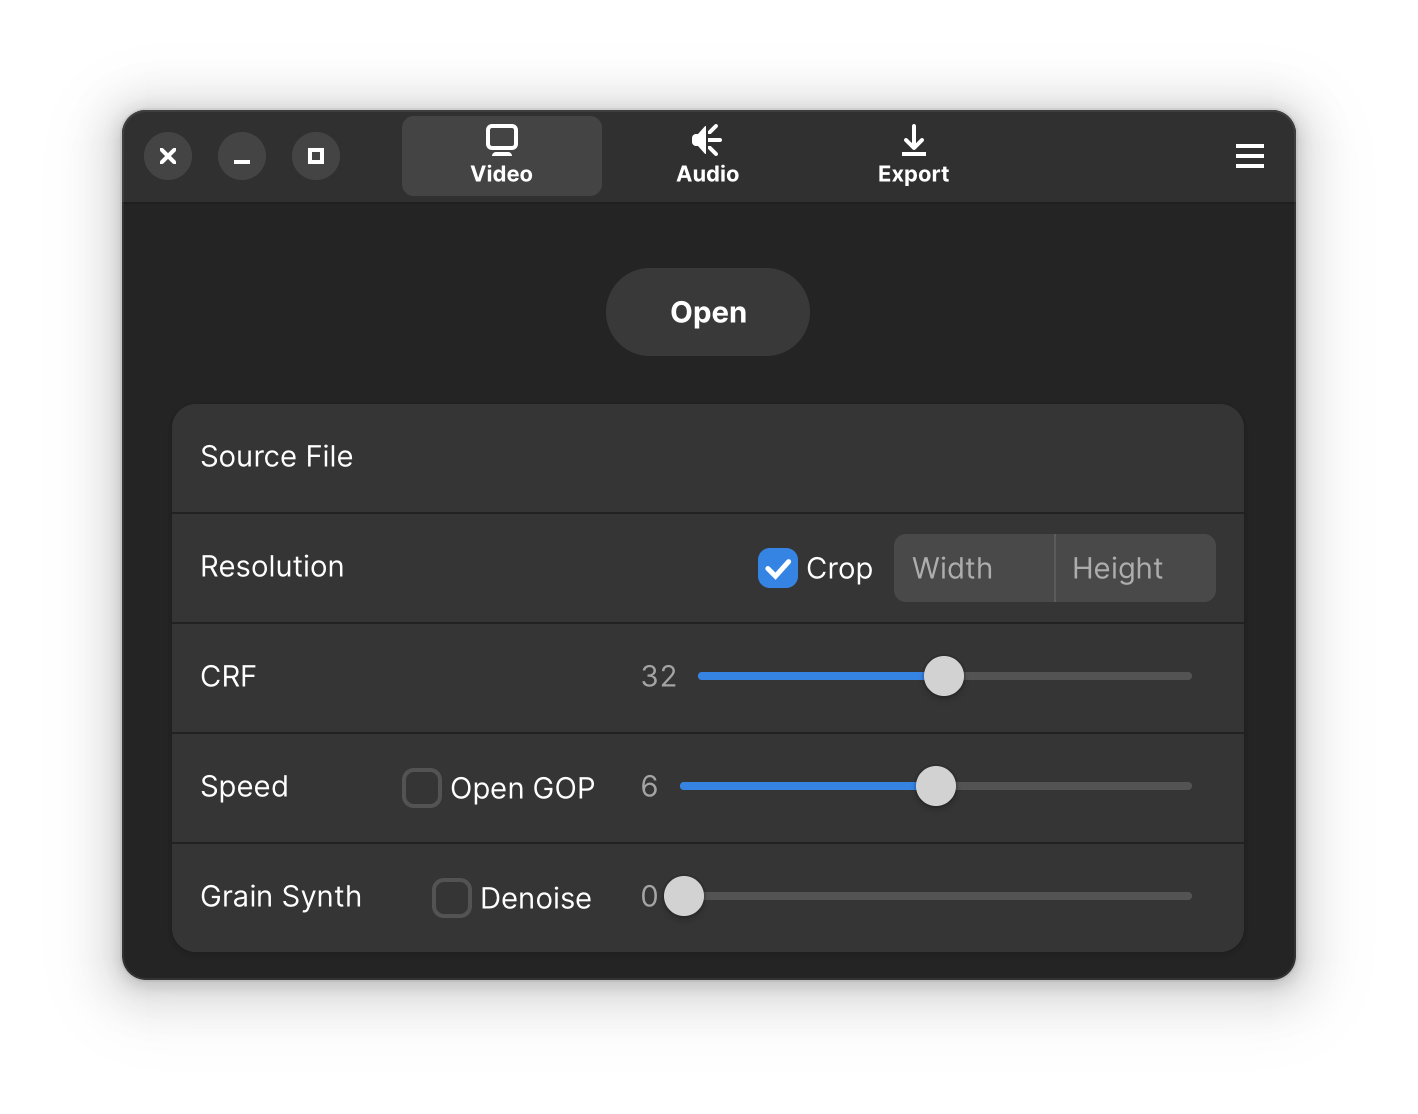
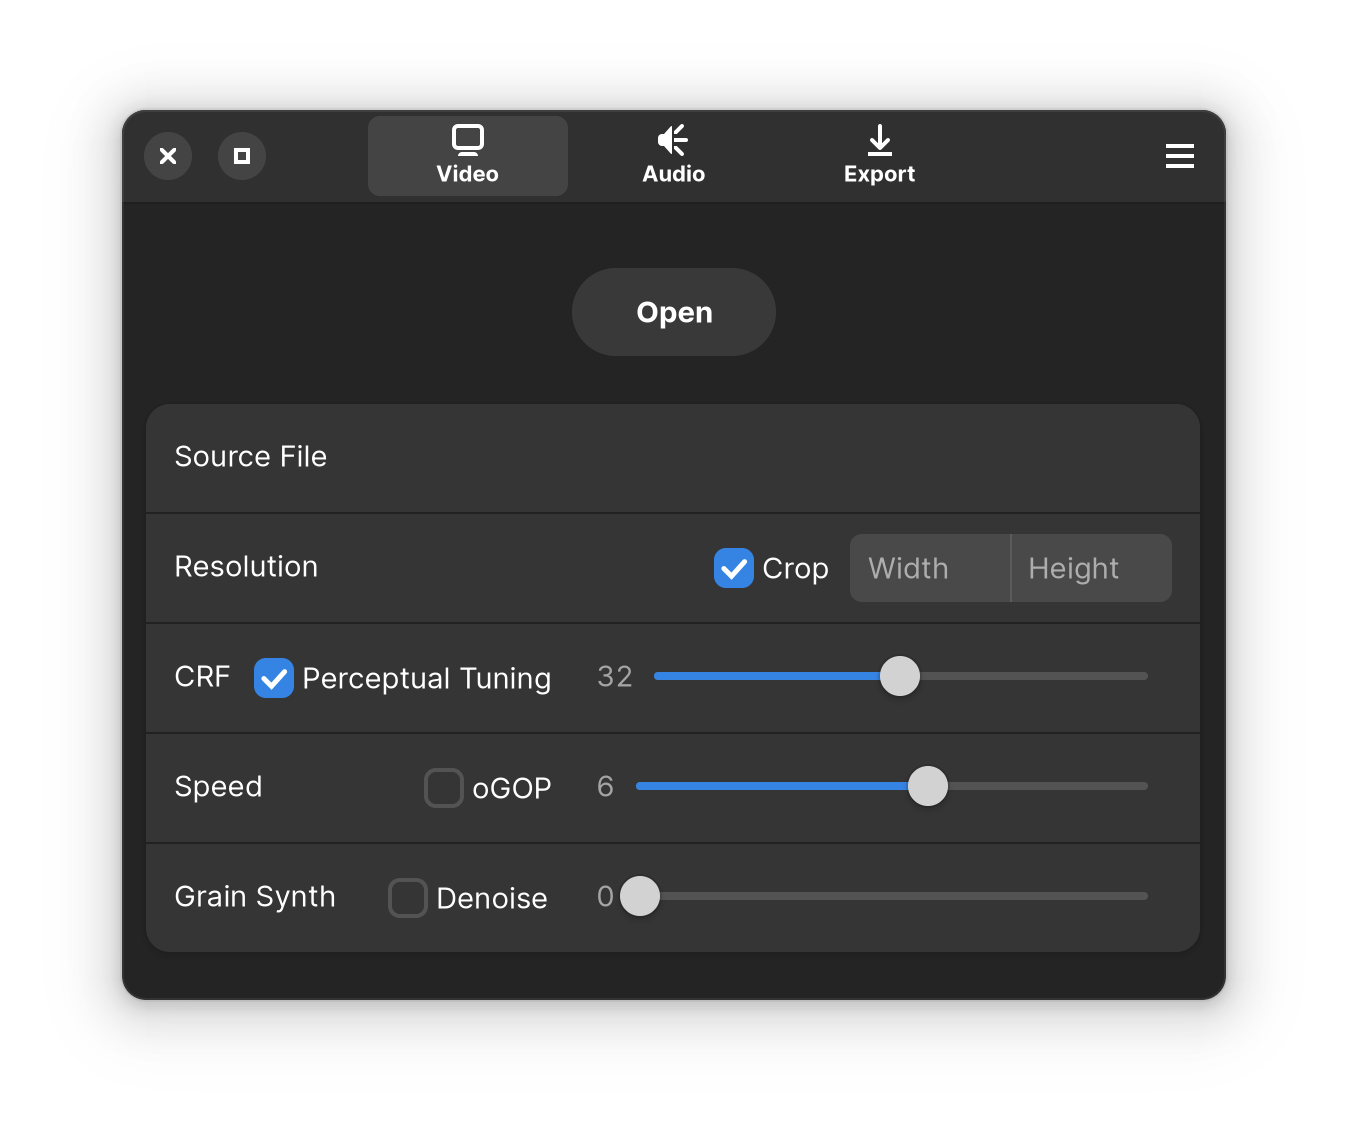
feat(0.5.1): Aviator 0.5.1
See changelog

diff --git a/src/__init__.py b/src/__init__.py
@@ -165,8 +165,10 @@ class MainWindow(Adw.Window):
     resolution_width_entry = Gtk.Template.Child()
     resolution_height_entry = Gtk.Template.Child()
     crop_toggle = Gtk.Template.Child()
+    warning_image_speed = Gtk.Template.Child()
     gop_toggle = Gtk.Template.Child()
     # scaling_method = Gtk.Template.Child()
+    psy_toggle = Gtk.Template.Child()
     crf_scale = Gtk.Template.Child()
     speed_scale = Gtk.Template.Child()
     grain_scale = Gtk.Template.Child()
@@ -265,6 +267,15 @@ class MainWindow(Adw.Window):
             callback=self.handle_file_select
         )
 
+    @Gtk.Template.Callback()
+    def speed_changed(self, button):
+        if self.speed_scale.get_value() < 3:
+            self.warning_image_speed.set_visible(True)
+        elif self.speed_scale.get_value() > 2:
+            self.warning_image_speed.set_visible(False)
+        else:
+            self.warning_image_speed.set_visible(True)
+
     # Export
 
     @Gtk.Template.Callback()
@@ -312,10 +323,6 @@ class MainWindow(Adw.Window):
             output += ".mkv"
         elif self.container == "webm" and not output.endswith(".webm"):
             output += ".webm"
-        # Trim file path
-        # if "/" in self.output_file_label.get_text():
-        #     self.output_file_absolute = self.output_file_label.get_text()
-        #     self.output_file_label.set_text(os.path.basename(self.output_file_absolute))
 
         def run_in_thread():
             
@@ -357,6 +364,13 @@ class MainWindow(Adw.Window):
                 resolution = "crop" + f"={width}:{height}" if self.crop_toggle.get_active() else "scale" + f"={width}:{height}:flags={method}"
             else:
                 resolution = "-y"
+
+            if self.psy_toggle.get_active():
+                tune = 3
+                sharpness = 1
+            else:
+                tune = 2
+                sharpness = 0
 
             if self.denoise_toggle.get_active():
                 denoise_val = 1
@@ -410,9 +424,10 @@ class MainWindow(Adw.Window):
                 "-crf", str(int(self.crf_scale.get_value())),
                 "-preset", str(int(self.speed_scale.get_value())),
                 "-pix_fmt", "yuv420p10le",
-                "-svtav1-params", f"film-grain={int(self.grain_scale.get_value())}:" + "input-depth=10:tune=2:enable-qm=1:qm-min=0:enable-tf=0:keyint=300:scd=1:aq-mode=2:" + f"irefresh-type={gop_val}:" + f"film-grain-denoise={denoise_val}",
+                "-svtav1-params", f"film-grain={int(self.grain_scale.get_value())}:" + f"tune={tune}:" + f"sharpness={sharpness}:" + "input-depth=10:enable-qm=1:qm-min=0:keyint=300:aq-mode=2:sharpness=1:" + f"irefresh-type={gop_val}:" + f"film-grain-denoise={denoise_val}",
                 "-map", "0:a?",
                 "-c:a", "copy" if self.audio_copy_switch.get_state() else "libopus",
+                "-mapping_family", "1",
                 "-b:a", self.bitrate_entry.get_text() + "K",
                 audio_filters_prefix,
                 audio_filters,

diff --git a/setup.py b/setup.py
@@ -2,7 +2,7 @@ from setuptools import setup, find_packages
 
 setup(
     name='Aviator',
-    version='0.5.0',
+    version='0.5.1',
     description='AV1/OPUS Encoder GUI',
     author='Gianni Rosato',
     author_email='grosatowork@proton.me',
